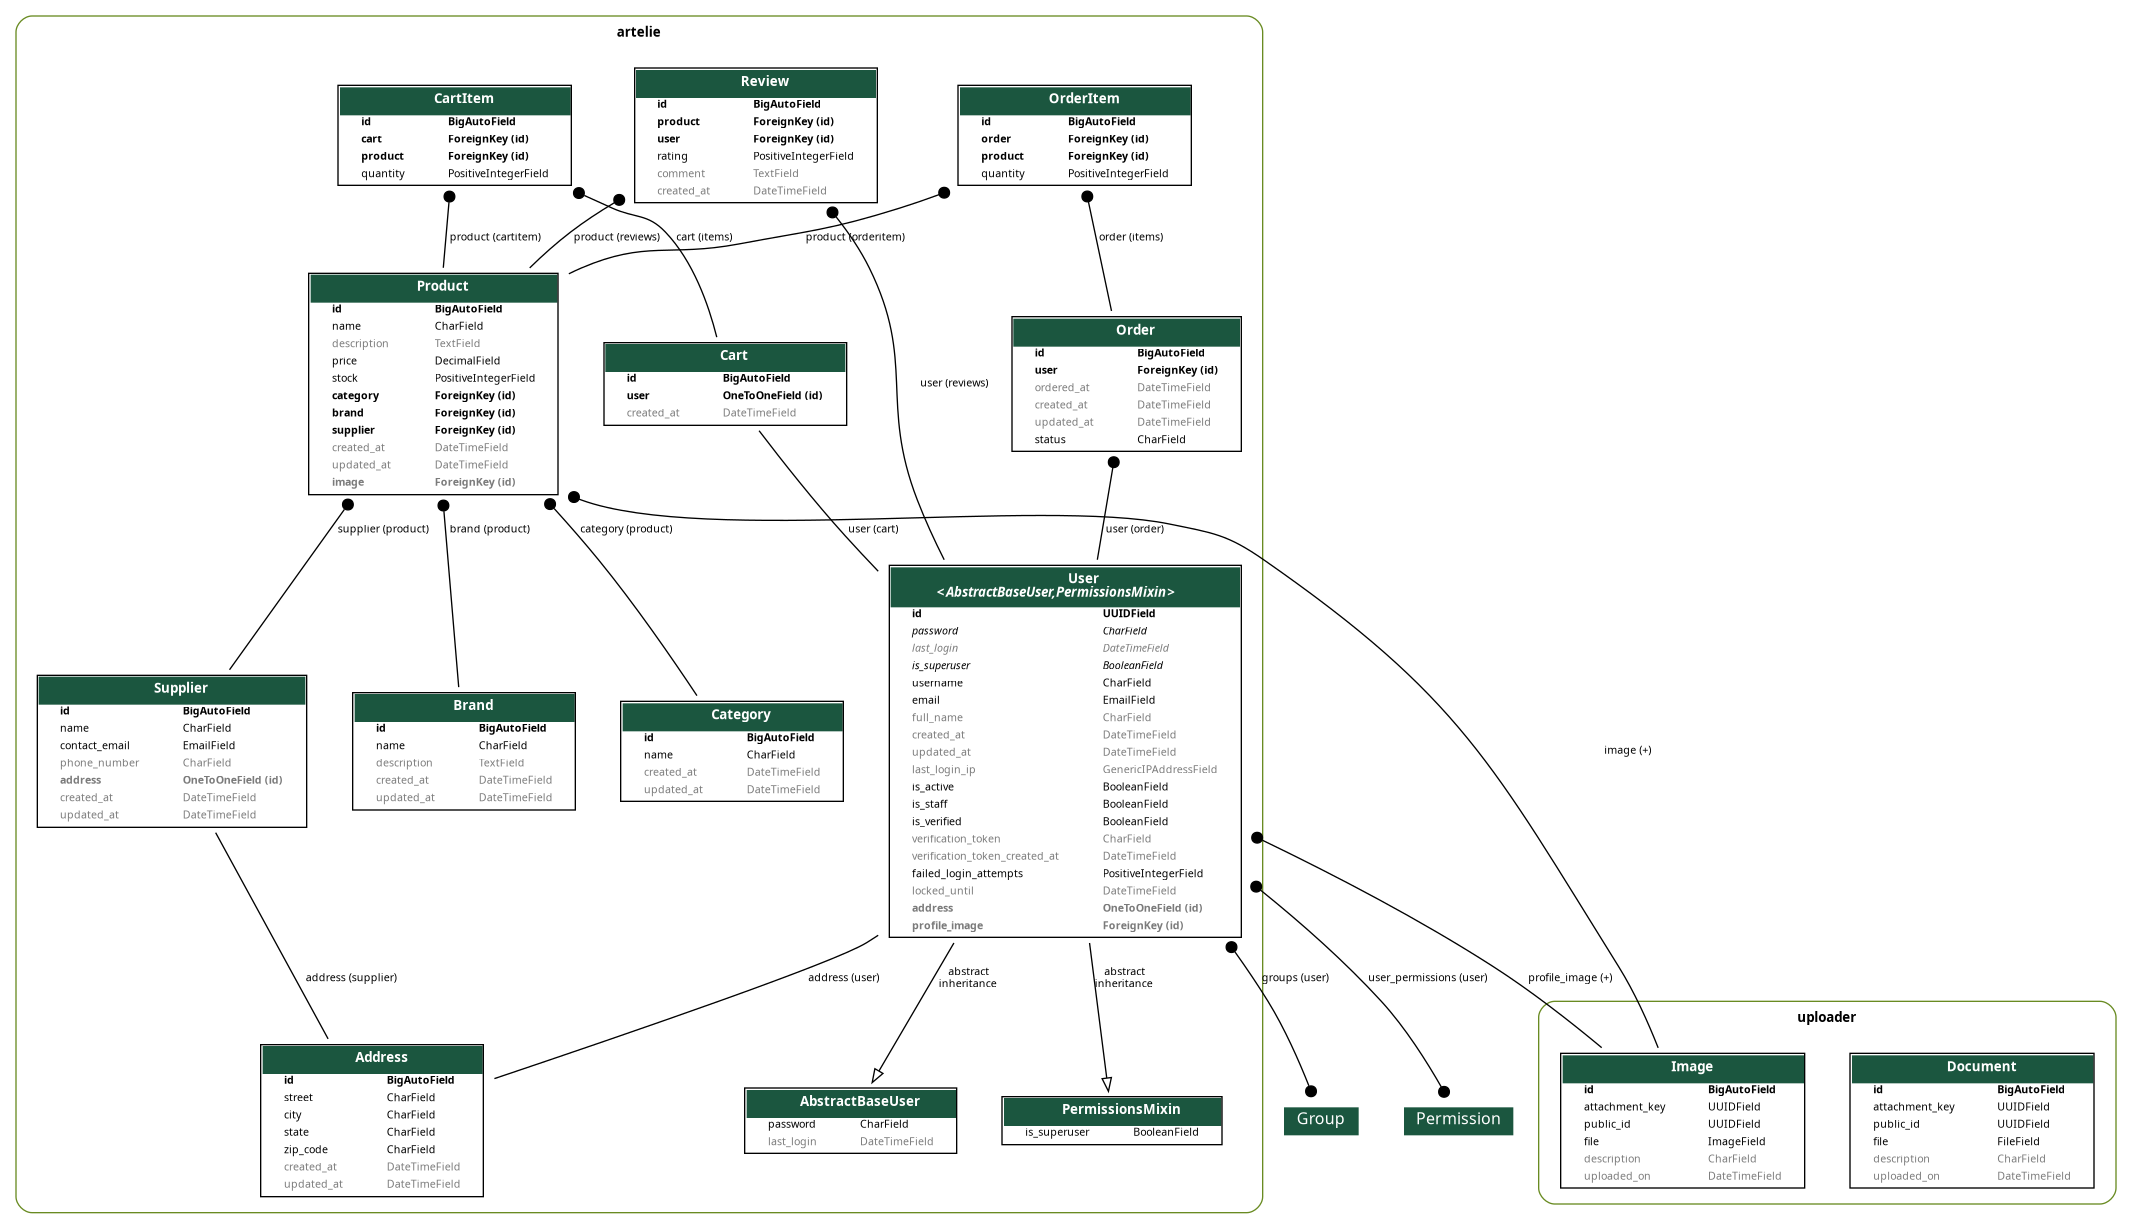
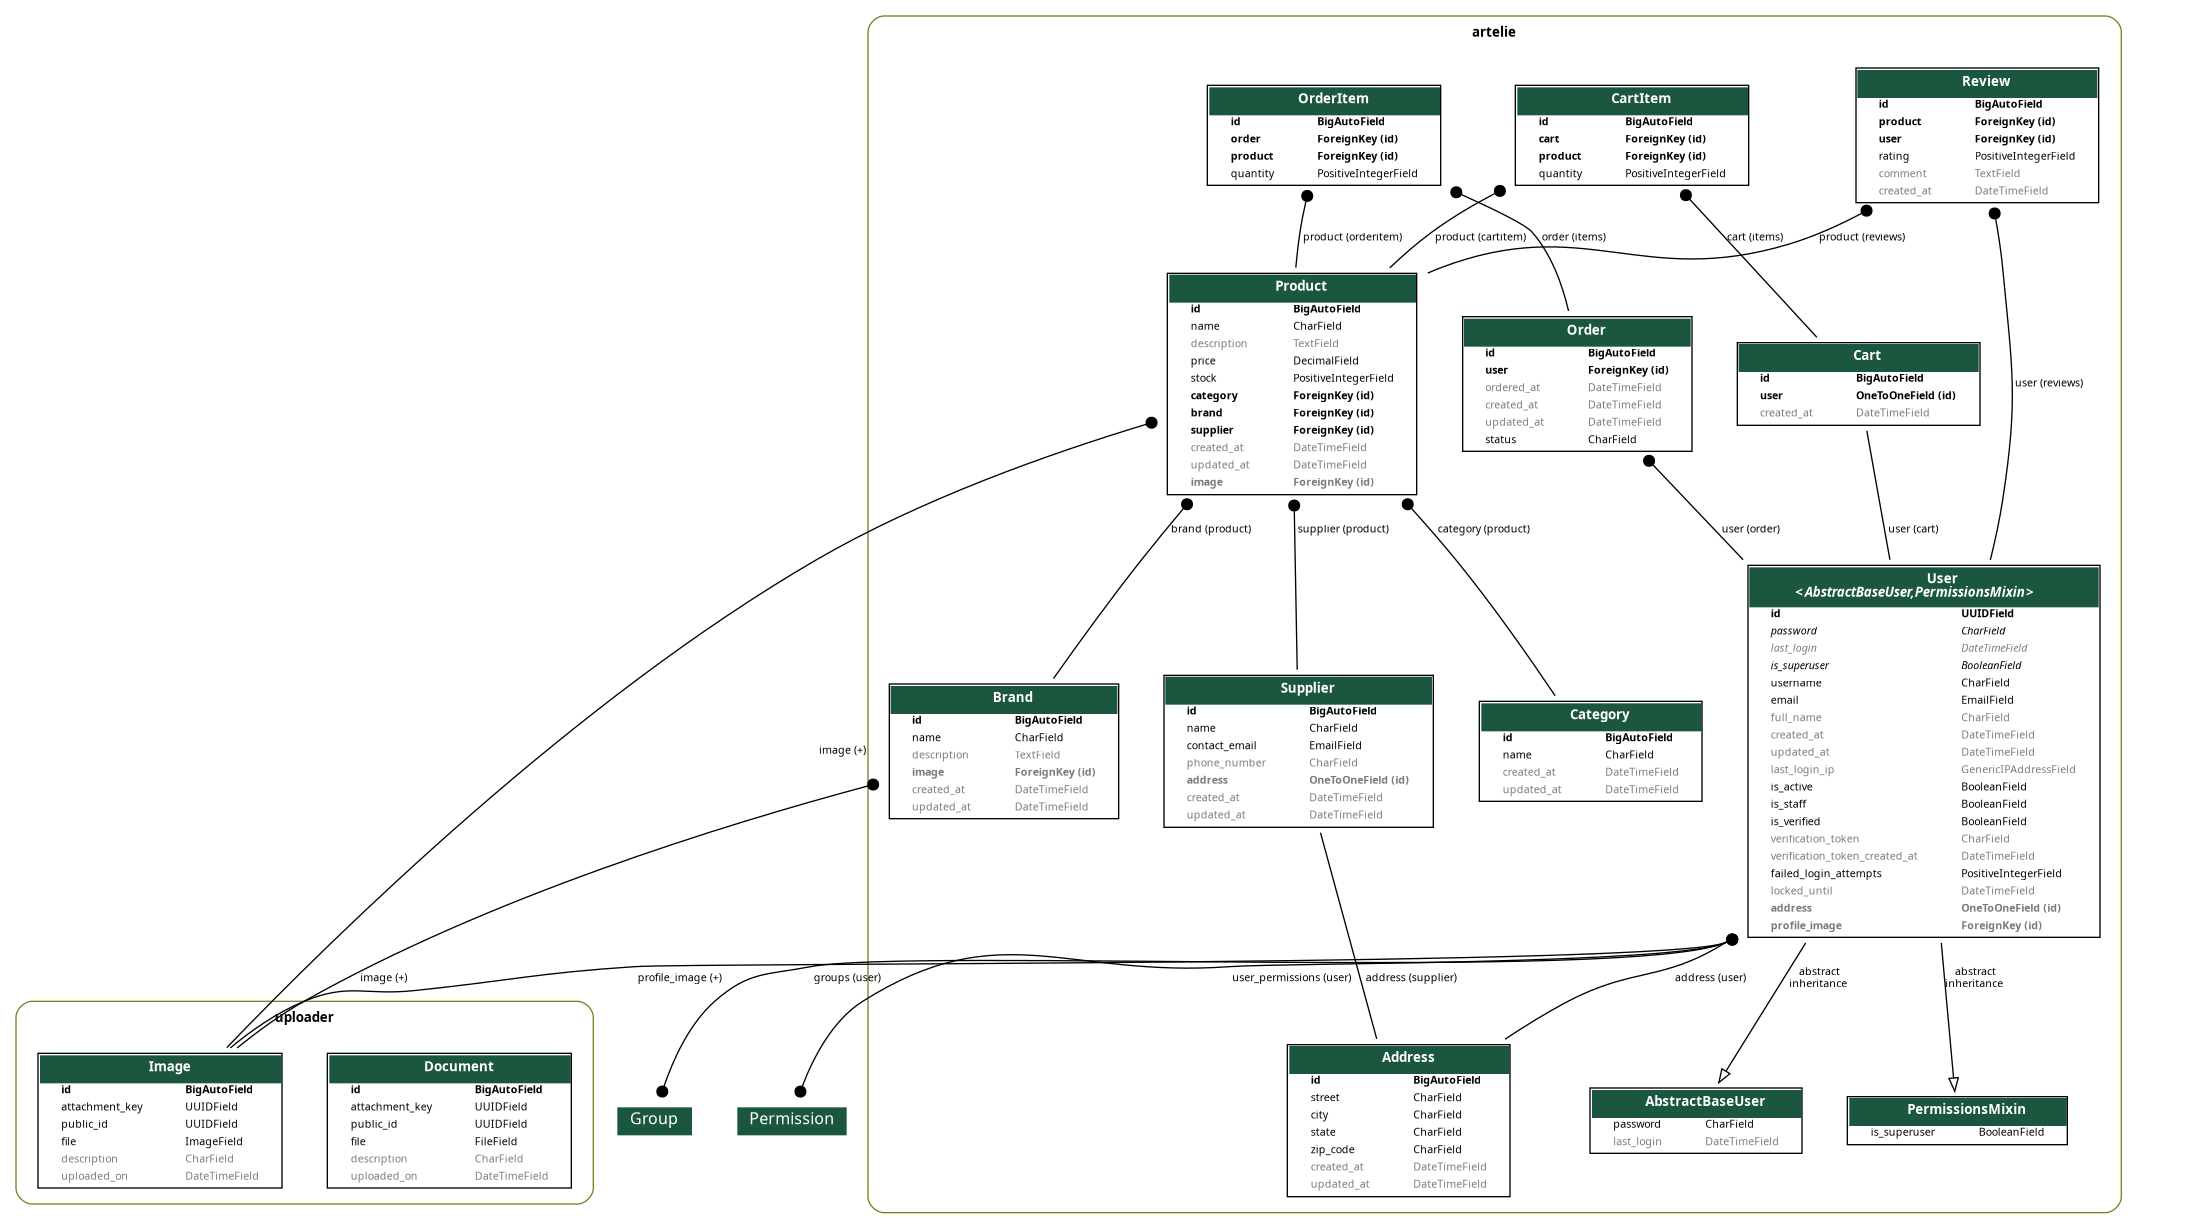
feat: adiciona campo de imagem ao modelo Brand e implementa paginação personalizada

diff --git a/artelie/serializers/brand.py b/artelie/serializers/brand.py
@@ -1,7 +1,19 @@
 from rest_framework import serializers
+from rest_framework.serializers import SlugRelatedField
 from artelie.models import Brand
+from uploader.models import Image
+from uploader.serializers import ImageSerializer
 
 class BrandSerializer(serializers.ModelSerializer):
+    image_attachment_key = SlugRelatedField(
+        source="image",
+        queryset=Image.objects.all(),
+        slug_field="attachment_key",
+        required=False,
+        write_only=True,
+    )
+    image = ImageSerializer(required=False, read_only=True)
+
     class Meta:
         model = Brand
         fields = '__all__'

diff --git a/artelie/migrations/0005_brand_image.py b/artelie/migrations/0005_brand_image.py
@@ -1,0 +1,20 @@
+# Generated by Django 5.2.7 on 2025-11-07 16:01
+
+import django.db.models.deletion
+from django.db import migrations, models
+
+
+class Migration(migrations.Migration):
+
+    dependencies = [
+        ('artelie', '0004_rename_imagem_product_image'),
+        ('uploader', '0001_initial'),
+    ]
+
+    operations = [
+        migrations.AddField(
+            model_name='brand',
+            name='image',
+            field=models.ForeignKey(blank=True, default=None, null=True, on_delete=django.db.models.deletion.SET_NULL, related_name='+', to='uploader.image'),
+        ),
+    ]

diff --git a/artelie/views/product.py b/artelie/views/product.py
@@ -7,3 +7,9 @@ class ProductViewSet(viewsets.ModelViewSet):
     queryset = Product.objects.all()
     serializer_class = ProductSerializer
     permission_classes = []
+    # Habilita filtros simples por categoria, marca e fornecedor
+    filterset_fields = ["category", "brand", "supplier"]
+    # Permite busca por nome e descrição (?search=texto)
+    search_fields = ["name", "description"]
+    # Permite ordenação por nome, preço e data de criação (?ordering=price ou -price)
+    ordering_fields = ["name", "price", "created_at"]

diff --git a/artelie/models/brand.py b/artelie/models/brand.py
@@ -1,8 +1,17 @@
 from django.db import models
+from uploader.models import Image
 
 class Brand(models.Model):
     name = models.CharField(max_length=100, unique=True)
     description = models.TextField(blank=True)
+    image = models.ForeignKey(
+        Image,
+        related_name="+",
+        on_delete=models.SET_NULL,
+        null=True,
+        blank=True,
+        default=None,
+    )
     created_at = models.DateTimeField(auto_now_add=True)
     updated_at = models.DateTimeField(auto_now=True)
 

diff --git a/config/settings.py b/config/settings.py
@@ -87,8 +87,7 @@ REST_FRAMEWORK = {
         'user_operations': '60/hour',  # 60 operações de usuário por hora
     },
     # Paginação
-    'DEFAULT_PAGINATION_CLASS': 'rest_framework.pagination.PageNumberPagination',
-    'PAGE_SIZE': 20,
+    'DEFAULT_PAGINATION_CLASS': 'artelie.pagination.DefaultPagination',
     # Filtros
     'DEFAULT_FILTER_BACKENDS': [
         'django_filters.rest_framework.DjangoFilterBackend',

diff --git a/artelie/pagination.py b/artelie/pagination.py
@@ -1,0 +1,10 @@
+from rest_framework.pagination import PageNumberPagination
+
+
+class DefaultPagination(PageNumberPagination):
+    # tamanho padrão por página
+    page_size = 80
+    # permite que o cliente ajuste o tamanho via query param: ?page_size=40
+    page_size_query_param = "page_size"
+    # limite máximo para não sobrecarregar o servidor
+    max_page_size = 150
